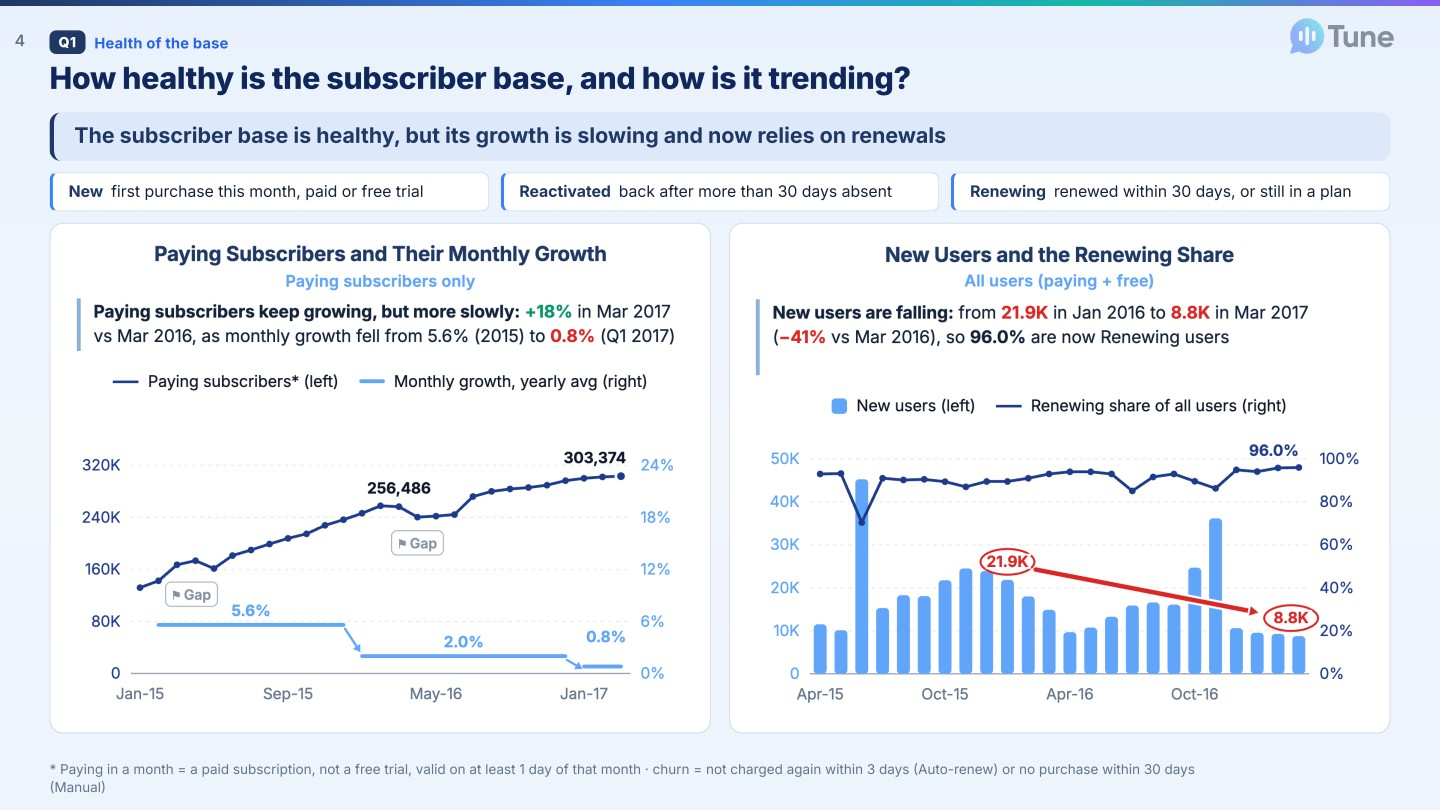
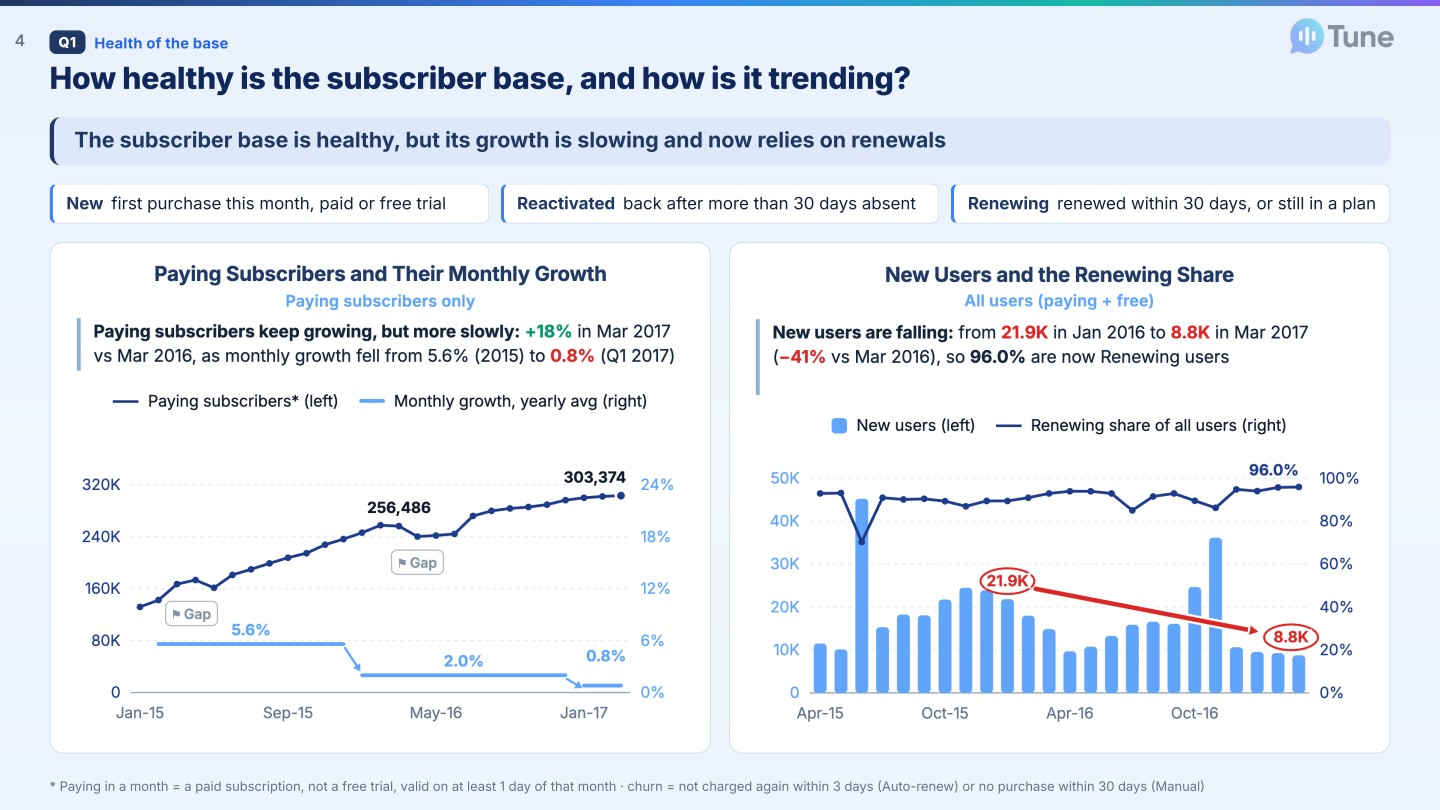
Deck slide 4: footnote on one line, more space between the answer, definitions and charts, bigger definition text

diff --git a/index.html b/index.html
@@ -3698,7 +3698,7 @@ const ISSUES = { raw_users: "U1-U11: age 0 or out of range, gender missing, regi
   raw_churn_labels: "L4-L7: labels don't match a naive 'due in March' population" };
 
 // ---------------- tabs ----------------
-const DECKV = "1118g";  // change on every deck update so browsers load the new slide images, not a cached copy
+const DECKV = "1118h";  // change on every deck update so browsers load the new slide images, not a cached copy
 const GROUPS = {
   intro: [["overview", "Overview"]],
   p1: [["dq", "1a · Data quality"], ["lineage", "1b.1 · Clean layer & data model"], ["explorer", "1b.2 · Explorer & SQL"], ["churn", "1c · Churn check"]],
